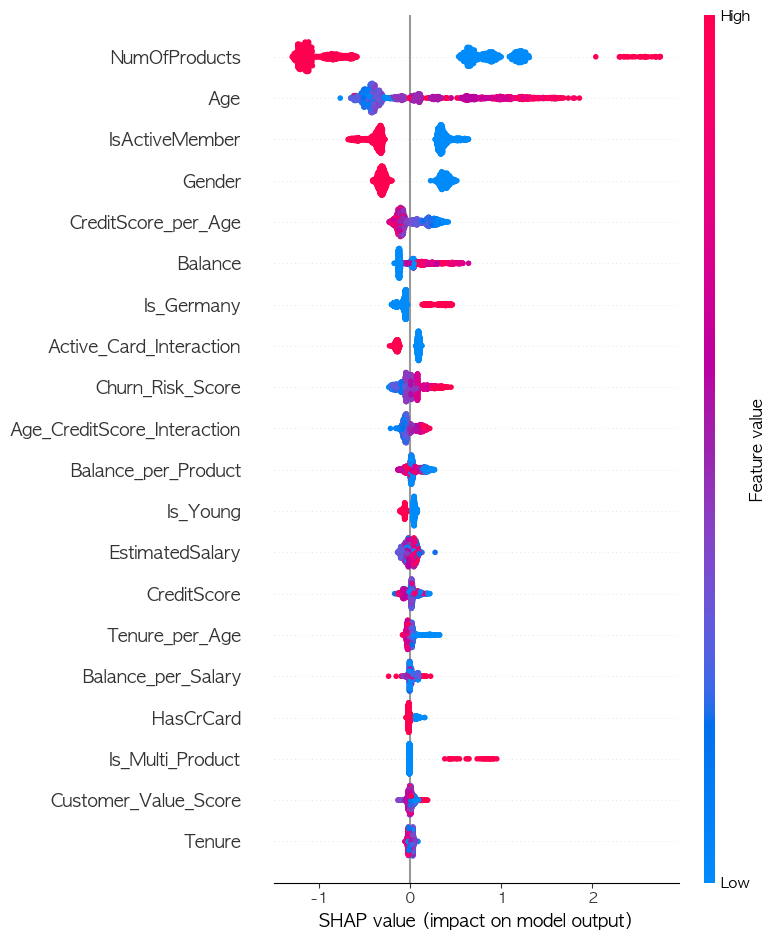
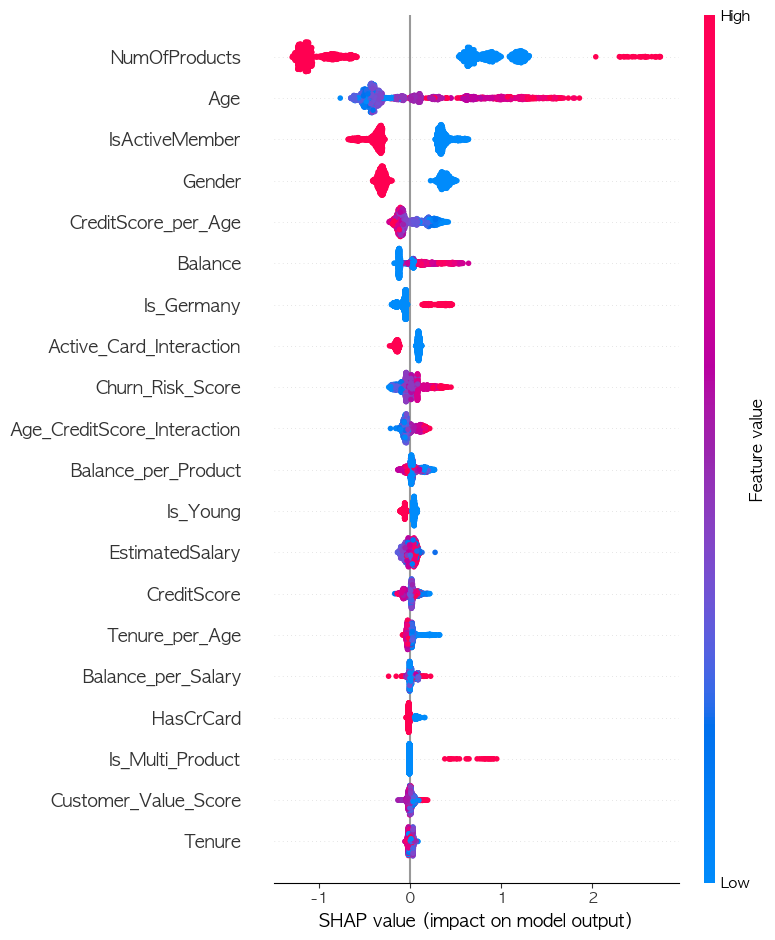
Sync README/assets with latest run and document methodological caveats
Optuna's time-capped search makes RF tuning vary slightly between runs, so
the README numbers and charts (from an earlier run) no longer matched the
committed notebook/submission. Regenerated all charts from the latest real
run and updated the blend weights, RF AUC, feature importances and XGBoost
p-value accordingly.

Also corrects the SHAP text: NumOfProducts is non-monotonic (churn 34.7% /
6.0% / 88% for 1 / 2 / 3-4 products), not simply "more products churn more".
Adds a Caveats section: Optuna non-reproducibility, the unfair
blend-vs-stacking comparison (weights fit on the same OOF they're scored
on), and optimistic paired t-tests from overlapping CV training sets.

diff --git a/README.md b/README.md
@@ -6,23 +6,23 @@ linear models, and gradient boosting libraries.
 
 ## Results (5-fold OOF, real dataset — 165,034 train rows, Optuna-tuned models)
 
-| Model | Default CV AUC | Optuna-tuned CV AUC | Final OOF AUC |
+| Model | Default AUC (3-fold) | Optuna-tuned AUC (3-fold) | Final OOF AUC (5-fold) |
 |-------|----------------|----------------------|---------------|
 | Logistic Regression | 0.8781 | 0.8782 | 0.8782 ± 0.0011 |
 | Extra Trees | 0.8858 | 0.8870 | 0.8869 ± 0.0013 |
-| Random Forest | 0.8877 | 0.8878 | 0.8879 ± 0.0013 |
+| Random Forest | 0.8877 | 0.8879 | 0.8880 ± 0.0013 |
 | Gradient Boosting | — (not tuned, see below) | — | 0.8889 ± 0.0014 |
 | LightGBM | 0.8892 | 0.8893 | 0.8895 ± 0.0013 |
 | XGBoost | 0.8891 | 0.8894 | 0.8895 ± 0.0012 |
 | **Ensemble (weighted blend)** | | | **0.8897 ± 0.0013** |
 
-Optimal blend weights: LGBM 36.1% / XGB 36.1% / GB 17.9% / RF 5.3% / ET 4.7% / LR 0%
+Optimal blend weights: LGBM 37.7% / XGB 33.0% / GB 17.3% / RF 7.9% / ET 4.2% / LR 0%
 (a stacking meta-model was also tried and scored slightly lower — 0.8891 — so the
 weighted blend was kept).
 
 - 95% CI: [0.8886, 0.8908]
 - Statistically significant improvement vs **5 of 6** individual models (p < 0.05);
-  XGBoost was the one exception (p = 0.06) since Optuna tuning brought it almost
+  XGBoost was the one exception (p = 0.065) since Optuna tuning brought it almost
   level with the ensemble itself
 - Predicted test churn rate: 21.12% (actual train churn rate: 21.16%)
 - CatBoost was not installed in the environment this was run in, so it was skipped;
@@ -88,13 +88,14 @@ values on a 2,000-row sample of the training set.
 IsActiveMember, Gender, CreditScore_per_Age, Balance, Is_Germany,
 Active_Card_Interaction, Churn_Risk_Score, Age_CreditScore_Interaction.
 
-This mostly agrees with the RF impurity-based ranking (both surface
-NumOfProducts, Age, IsActiveMember as top drivers) but reorders several
-mid-tier features and — unlike impurity importance — shows *direction*: e.g.
-a high `NumOfProducts` pushes the prediction both strongly up and strongly
-down depending on its value (customers with too many products churn more,
-consistent with `Is_Multi_Product`'s effect), which a single importance
-number can't express.
+This mostly agrees with the RF impurity-based ranking (NumOfProducts, Age and
+IsActiveMember are top drivers in both) but reorders several mid-tier
+features and — unlike impurity importance — shows *direction*. The
+`NumOfProducts` effect is a good example because it is non-monotonic, which a
+single importance number can't express: in the training data churn is 34.7%
+for 1 product, only 6.0% for 2 products, and 88% for 3-4 products, and the
+SHAP plot reflects exactly that (2 products pushes predictions down, 1 pushes
+up moderately, 3-4 pushes up strongly).
 
 ![SHAP summary](assets/shap_summary.png)
 
@@ -122,6 +123,26 @@ possible outcome of the check, not a shortcut: an ensemble average of several
 well-fit models often self-calibrates even when individual members don't.
 
 ![Calibration curve](assets/calibration_curve.png)
+
+## Caveats
+
+- **Optuna results aren't bit-for-bit reproducible.** Each study is capped at
+  25 trials *or* 180 seconds, so the number of completed trials (and
+  therefore the tuned parameters, especially for RF) varies slightly with
+  machine load. Re-running shifts the 4th decimal of some AUCs and the exact
+  blend weights; the conclusions above don't change.
+- **The blend-vs-stacking comparison is not perfectly fair.** Blend weights
+  are optimized on the same OOF predictions the blend's AUC is then measured
+  on (slightly optimistic), whereas the stacking meta-model's score comes
+  from a separate CV over those predictions (honest). The 0.0005 AUC edge of
+  the blend over stacking is within that optimism, so treat the two as
+  roughly tied.
+- **The paired t-tests are optimistic.** The 5 fold scores come from
+  overlapping training sets, so they are not independent; a corrected
+  resampled t-test (Nadeau & Bengio) would give larger p-values. Read the
+  p-values as "consistent direction across folds" rather than exact
+  significance levels, especially since the ensemble-vs-best-single gaps are
+  only ~0.0002 AUC.
 
 ## What changed in the rework
 - **Added LightGBM / XGBoost / CatBoost** to the model zoo (used if installed,
@@ -185,9 +206,9 @@ Expanded from 12 → 27 features:
 - Churn Risk Score (composite indicator)
 
 ## Top Features (Random Forest impurity importance)
-1. NumOfProducts (0.2083)
-2. Age (0.1705)
-3. CreditScore_per_Age (0.0904)
+1. NumOfProducts (0.2118)
+2. Age (0.1620)
+3. CreditScore_per_Age (0.0978)
 
 (see [Explainability (SHAP)](#explainability-shap) above for a less biased,
 direction-aware ranking)
